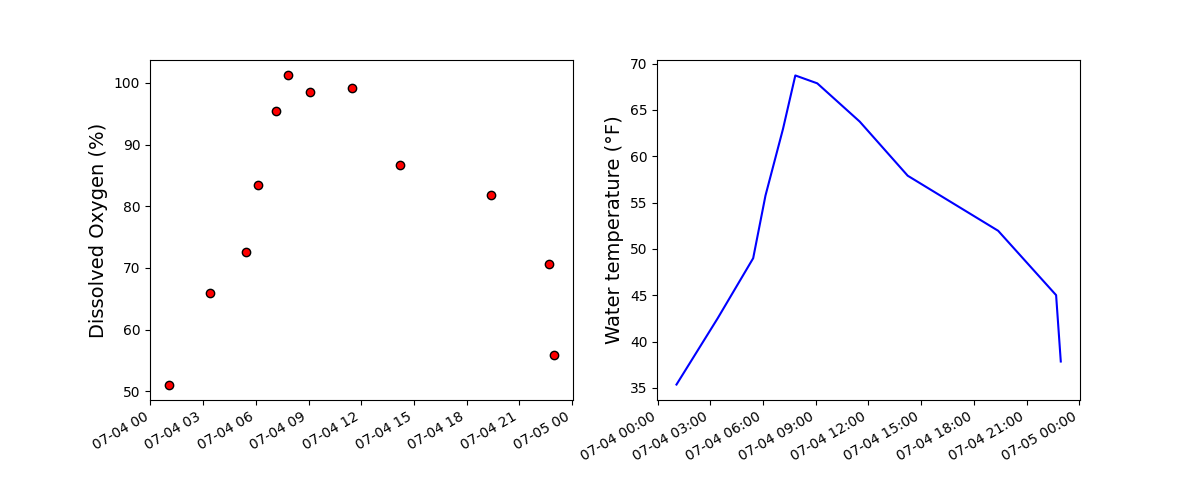
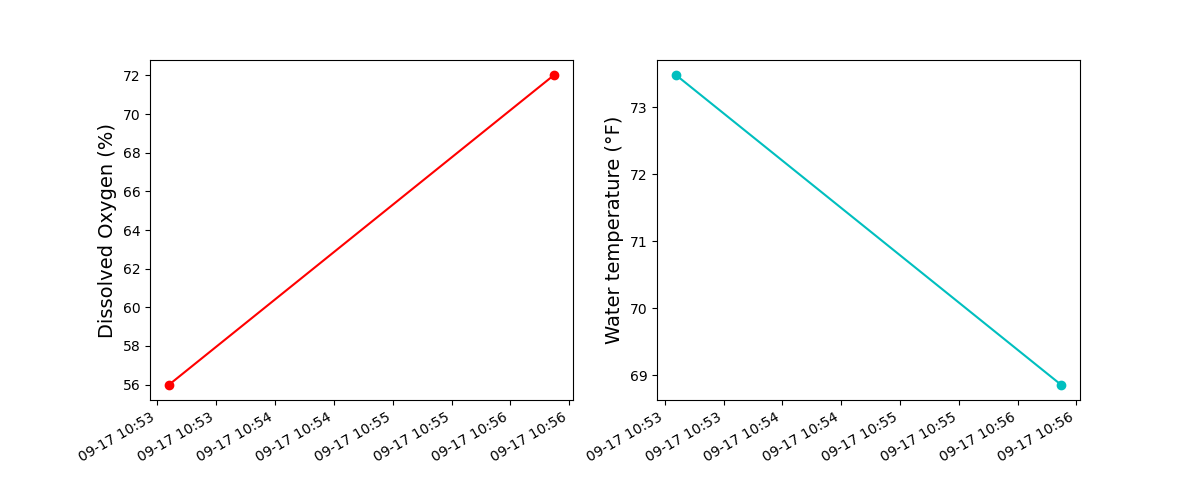
updated website

diff --git a/static/css/sensors.css b/static/css/sensors.css
@@ -35,7 +35,7 @@ body{
 
 .data_summary li{
     margin-top: 1%;
-    font-size: 10px;
+    font-size: 20px;
     margin-left: 10px;
 }
 

diff --git a/firebase.py b/firebase.py
@@ -115,14 +115,14 @@ class pond():
             final_temp.append(temp[index_hp])
         
         self.d_dt = to_datetime(data)
-        self.heading = np.array([(data[i]['heading']) for i in data])
-        self.init_do = np.array([(data[i]['init_do']) for i in data])
-        self.init_pressure = np.array([(data[i]['init_pressure']) for i in data])
-        self.lat = np.array([(data[i]['lat']) for i in data])
-        self.lng = np.array([(data[i]['lng']) for i in data])
-        self.pressure = np.array(final_pressure)
-        self.do = np.array(final_do)
-        self.temp = (np.array(final_temp))*(9/5)+32
+        self.heading = np.array([(data[i]['heading']) for i in data], dtype='float')
+        self.init_do = np.array([(data[i]['init_do']) for i in data], dtype='int')
+        self.init_pressure = np.array([(data[i]['init_pressure']) for i in data], dtype='float')
+        self.lat = np.array([(data[i]['lat']) for i in data], dtype='float')
+        self.lng = np.array([(data[i]['lng']) for i in data], dtype='float')
+        self.pressure = np.array(final_pressure, dtype='float')
+        self.do = (np.array(final_do, dtype='int') / self.init_do * 100).round()
+        self.temp = (np.array(final_temp, dtype='float'))*(9/5)+32
         self.id = int(name)
 
     def plot_temp_do(self, mv):
@@ -137,16 +137,18 @@ class pond():
 
         if data_pts < mv:
             mv=data_pts
-        
+        print(self.d_dt[window])
         plt.figure(figsize=(12,5))
         plt.subplot(1,2,1)
-        plt.plot(self.d_dt[window],moving_average(self.do[window],mv), 'o-',color='r')
+        # plt.plot(self.d_dt[window],moving_average(self.do[window],mv), 'o-',color='r')
+        plt.plot(self.d_dt[window], self.do[window], 'o-', color='r')
         # plt.scatter(self.d_dt[window],self.do[window], color='r')
         plt.ylabel('Dissolved Oxygen (%)', fontsize=14)
         plt.gcf().autofmt_xdate()
         plt.gca().xaxis.set_major_formatter(date_formatter)
         plt.subplot(1,2,2)
-        plt.plot(self.d_dt[window], moving_average(self.temp[window],mv), 'o-',color= 'c')
+        # plt.plot(self.d_dt[window], moving_average(self.temp[window],mv), 'o-',color= 'c')
+        plt.plot(self.d_dt[window], self.temp[window], 'o-',color= 'c')
         plt.ylabel("Water temperature (°F)", fontsize=14)
         plt.gcf().autofmt_xdate()
         plt.gca().xaxis.set_major_formatter(date_formatter)
